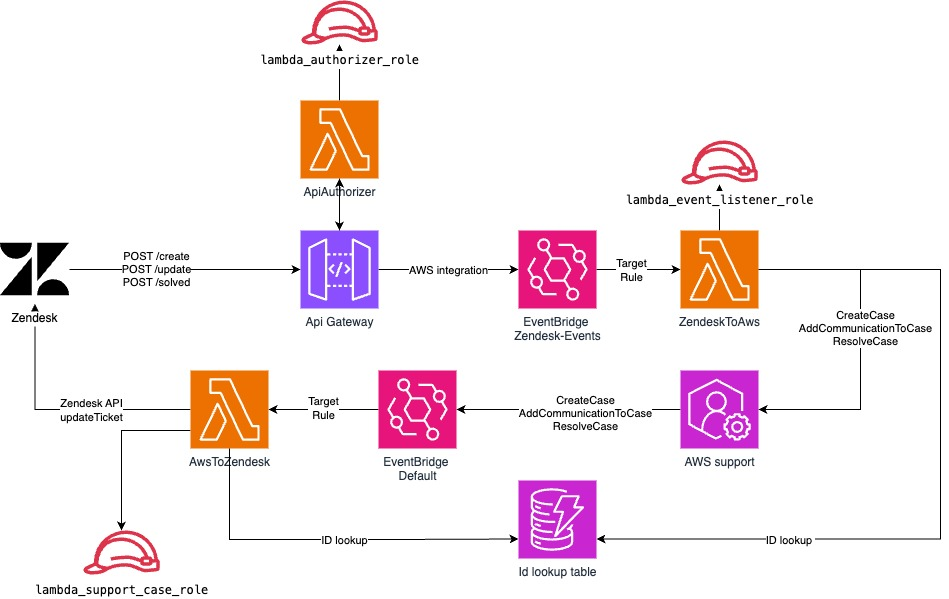
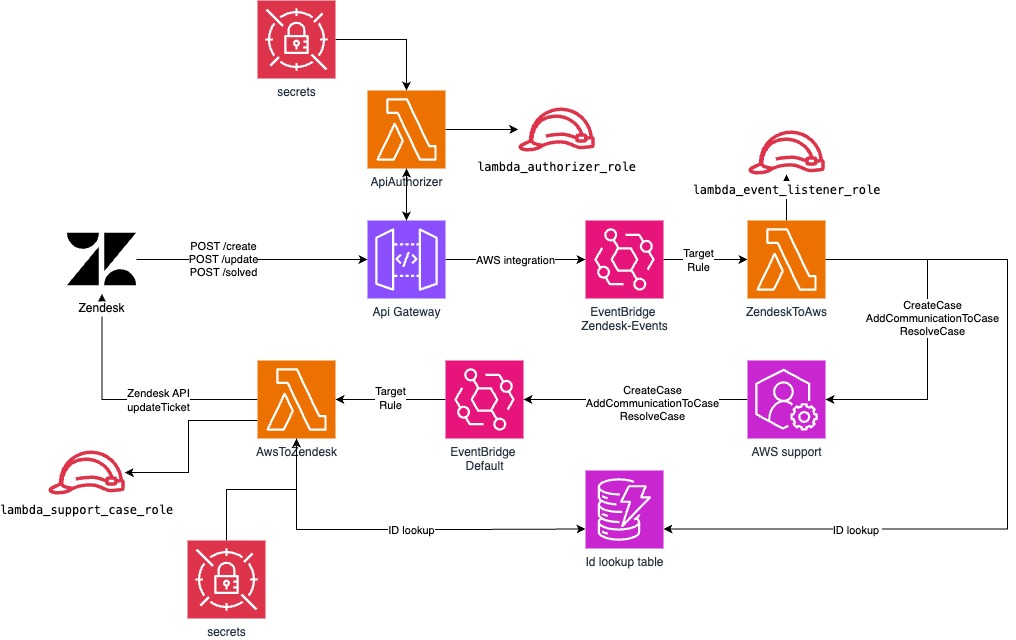
Secrets Manager
- Document the severity field in readme
- Move Zendesk API Key from lambda env variable to secrets manager
- Remove S3 permissions and usage (after dynamoDB migration)
- Increased lambda timeout to handle Secrets Manager calls

diff --git a/lambdaAwsToZendesk/lambdaAwsToZendesk.py b/lambdaAwsToZendesk/lambdaAwsToZendesk.py
@@ -6,6 +6,7 @@ import boto3
 import os
 from aws_xray_sdk.core import xray_recorder
 from aws_xray_sdk.core import patch_all
+from botocore.exceptions import ClientError
 
 patch_all()
 
@@ -15,13 +16,13 @@ DYNAMO = boto3.client('dynamodb')
 SUPPORT = boto3.client('support')
 LOGGER = logging.getLogger()
 LOGGER.setLevel(logging.INFO)
-ZENDESK_TOKEN = os.environ['ZENDESK_TOKEN']
 ZENDESK_SUBDOMAIN = os.environ['ZENDESK_SUBDOMAIN']
 ZENDESK_ADMIN_EMAIL = os.environ['ZENDESK_ADMIN_EMAIL']
+REGION_NAME         = os.environ['REGION_NAME']
 
-def update_zendesk_ticket(ticket_id, comment, solve=False):
+def update_zendesk_ticket(ticket_id, comment,zendesk_token, solve=False):
     url = f"https://{ZENDESK_SUBDOMAIN}.zendesk.com/api/v2/tickets/{ticket_id}.json"
-    auth_string = f"{ZENDESK_ADMIN_EMAIL}/token:{ZENDESK_TOKEN}"
+    auth_string = f"{ZENDESK_ADMIN_EMAIL}/token:{zendesk_token}"
     auth_encoded = base64.b64encode(auth_string.encode()).decode()
     
     headers = {
@@ -47,6 +48,27 @@ def update_zendesk_ticket(ticket_id, comment, solve=False):
         raise Exception(f"Erreur lors de la mise à jour du ticket: {e}")
 
 
+def get_secret():
+
+    secret_name = "zendesk_api_key"
+    region_name = REGION_NAME
+
+    session = boto3.session.Session()
+    client = session.client(
+        service_name='secretsmanager',
+        region_name=region_name
+    )
+
+    try:
+        get_secret_value_response = client.get_secret_value(
+            SecretId=secret_name
+        )
+    except ClientError as e:
+        raise e
+
+    secret = get_secret_value_response['SecretString']
+    return secret
+
 def get_lookup_id(key):
     response = DYNAMO.get_item( TableName= os.environ['TABLE_NAME'], Key={'id-z':{'S':key}})
     print("GET ID LOOKUP")
@@ -57,16 +79,16 @@ def lambda_handler(event, context):
     """
     AWS Lambda function that logs support case events from EventBridge.
     """
-    try:
+    try:    
+        zendesk_token =  get_secret()
+
+
         LOGGER.info("Received AWS Support Case Event:")
         LOGGER.info(json.dumps(event, indent=2))
         event_name = event.get('detail', {}).get('event-name', 'Unknown')
         event_origin = event.get('detail', {}).get('origin', 'Unknown')
         case_id = event.get('detail', {}).get('case-id', 'Unknown')
 
-        print(case_id)
-        print(event_name)
-        print(event_origin)
         if(event_name == "AddCommunicationToCase" and event_origin == "AWS"):
             print("send comm to Zendesk API")
             z_id =  get_lookup_id(case_id)
@@ -75,22 +97,25 @@ def lambda_handler(event, context):
                 caseId=case_id,
                 maxResults=10
             )
-            print(response['communications'][0])
+            #print(response['communications'][0])
             try:
-                z_response = update_zendesk_ticket(
+                update_zendesk_ticket(
                     ticket_id=z_id,
-                    comment=response['communications'][0]['body'],
+                    comment=response['communications'][0]['body'], 
+                    zendesk_token=zendesk_token
+                    
                 )
-                print("✅ Ticket mis à jour avec succès!")
+                print("✅ Case updated")
 
             except Exception as e:
-                print(f"❌ Erreur: {e}")
+                print(f"❌ error: {e}")
 
         if(event_name == "ResolveCase"):
             z_id =  get_lookup_id(case_id)
-            z_response = update_zendesk_ticket(
+            update_zendesk_ticket(
                     ticket_id=z_id,
                     comment='solved',
+                    zendesk_token=zendesk_token,
                     solve=True
                 )
 

diff --git a/lambdaApiAuthorizer/lambdaApiAuthorizer.py b/lambdaApiAuthorizer/lambdaApiAuthorizer.py
@@ -1,32 +1,45 @@
 
 import json
-import hashlib
-import hmac
 import os
-import base64
 import logging
 
 import boto3
 from aws_xray_sdk.core import xray_recorder
 from aws_xray_sdk.core import patch_all
+from botocore.exceptions import ClientError
 
 patch_all()
 LOGGER = logging.getLogger()
 LOGGER.setLevel('INFO')
 
-WEBHOOK_SECRET_CREATE = os.environ['WEBHOOK_SECRET_CREATE'].encode('utf-8')
-WEBHOOK_SECRET_UPDATE = os.environ['WEBHOOK_SECRET_UPDATE'].encode('utf-8')
-WEBHOOK_SECRET_SOLVED = os.environ['WEBHOOK_SECRET_SOLVED'].encode('utf-8')
-BEARER_TOKEN          = os.environ['BEARER_TOKEN']
+REGION_NAME  = os.environ['REGION_NAME']
+
+def get_secret():
+    secret_name = "api_key"
+    region_name = REGION_NAME
+
+    session = boto3.session.Session()
+    client = session.client(
+        service_name='secretsmanager',
+        region_name=region_name
+    )
+
+    try:
+        get_secret_value_response = client.get_secret_value(
+            SecretId=secret_name
+        )
+    except ClientError as e:
+        raise e
+
+    secret = get_secret_value_response['SecretString']
+    return secret
+
+BEARER_TOKEN = get_secret()
 
 def verify_signature(bearer):
     return bearer == BEARER_TOKEN
 
-
-
 def lambda_handler(event, context):
-    print("hello")
-    print(event)
 
     bearer = event['headers'].get('authorization', '')
 

diff --git a/lambdaZendeskToAws/lambdaZendeskToAws.py b/lambdaZendeskToAws/lambdaZendeskToAws.py
@@ -47,8 +47,6 @@ def create_support_case(payload_dict):
         )
         
         LOGGER.info(f"Support case created: {response['caseId']}")
-        bucket_name =  os.environ['BUCKET_AWS_ZENDESK']
-        file_name = response['caseId']
         content = str(payload_dict['detail'].get('zd_ticket_id'))
 
 

diff --git a/README.md b/README.md
@@ -178,12 +178,12 @@ The zendesk-aws-support project is a powerful bridge between Zendesk and AWS, en
 
 Before getting started with zendesk-aws-support, ensure your runtime environment meets the following requirements:
 
-- **Programming Language:** Terraform
+- **Programming Language:** Terraform & Python 3
 
 
 ### ⚙ Installation
 
-Install zendesk-aws-support using one of the following methods:
+Install zendesk-aws-support using the following methods:
 
 **Build from source:**
 
@@ -196,6 +196,7 @@ Install zendesk-aws-support using one of the following methods:
 ```sh
 ❯ cd zendesk-aws-support
 ```
+
 
 3. Install the project dependencies:
 
@@ -210,15 +211,19 @@ Install zendesk-aws-support using one of the following methods:
 
 ### 🤖 Zendesk configuration
 
-#### 1.Create 2 custom fields
-First create 2 additional custom fields in the Zendesk form to gather data about Severity, Impacted Service and Category of the case: 
+#### 1.Create 3 custom fields
+First create 3 additional custom fields in the Zendesk form to gather data about Severity, Impacted Service and Category of the case: 
 - Field named AWS Service should be a drop down field with serviceCodes value (SageMaker)
 - Field named Category code should be a drop down field with all the possible categoryCodes for a give serviceCode (cf file in /zendeskResources directory).
+- Field named Severity should be a drop down field with ["urgent","high","normal","low","critical"]
 #### 2.Create Webhooks
 Then create 3 webhooks:
 - aws support - solved, endpoint = https://your_gateway_url/solved 
 - aws support - update, endpoint = https://your_gateway_url/update 
-- aws support - create , endpoint = https://your_gateway_url/create 
+- aws support - create , endpoint = https://your_gateway_url/create   
+
+⚠ When creating the webhook select Authentication + Bearer token and add the bearer_token variable from /platform/tofill.auto.tfvars
+
 
 ####  3.Create Triggers
 From the Zendesk Admin Panel, create **3 triggers** (under *Objects and Rules*).
